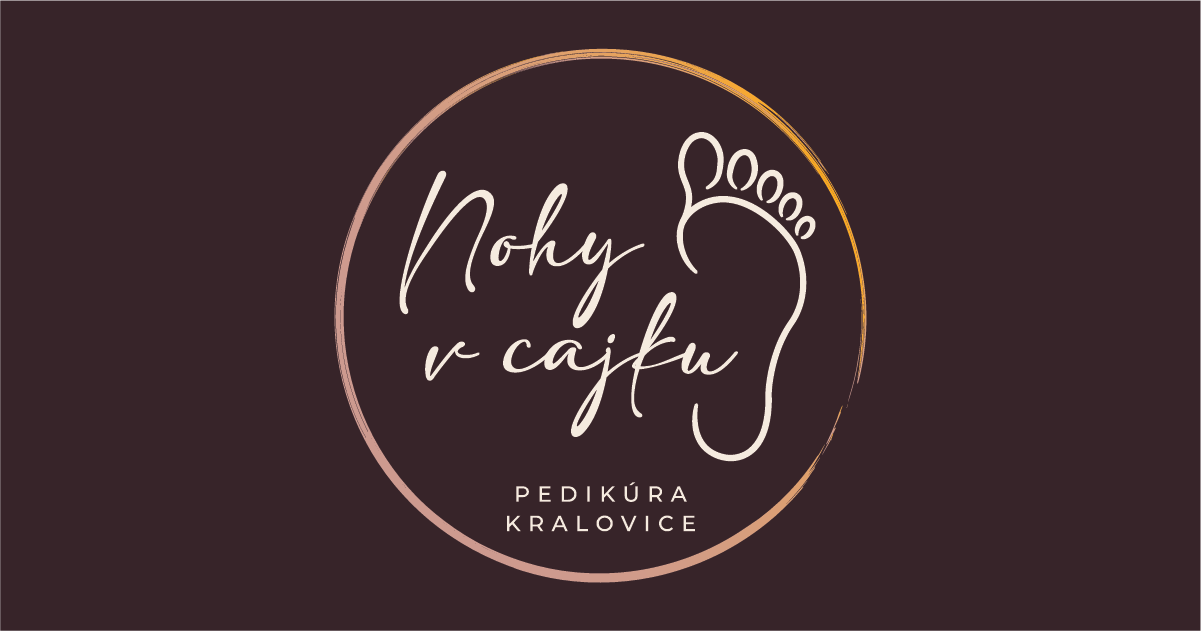
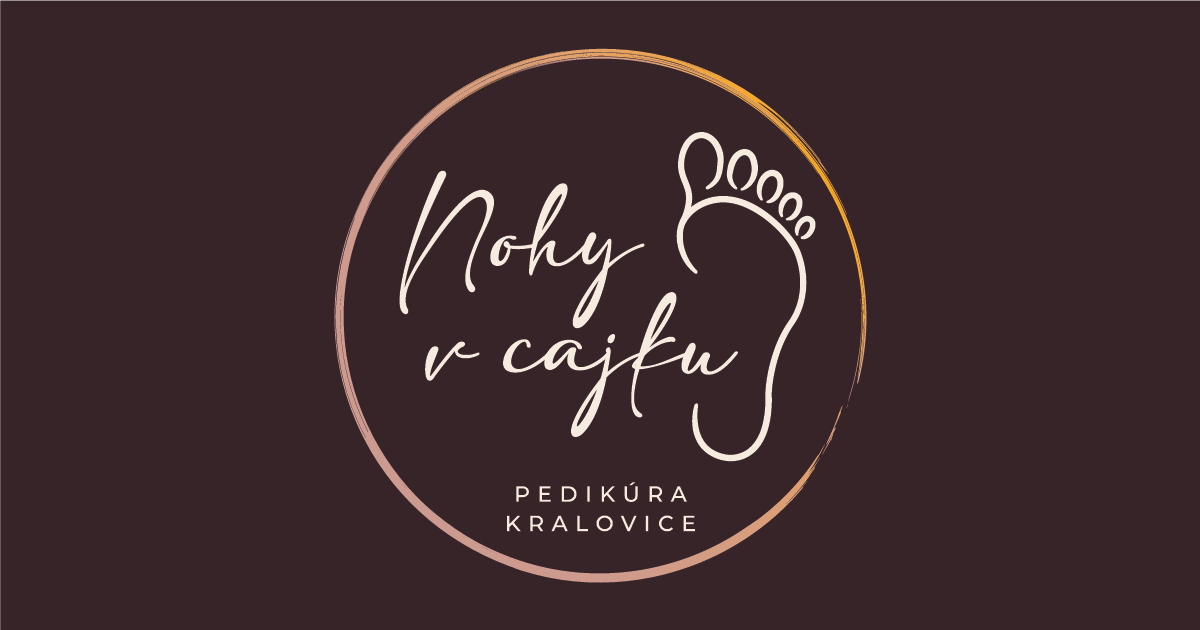
refactor: sdilena kontrola vlastniho casu, OG obrazek 1200x630 (audit D4, P8)
- checkOutsideHoursSlot v lib/check-booking-overlap.ts nahrazuje
  zkopirovanou kontrolu (minulost, pres pulnoc, prekryv) v
  createManualBookingAction, moveBooking a moveGroupBooking
- vraci duvod misto vyjimky, volajici si ho prevede na svou chybu,
  texty chyb beze zmeny
- testy pro checkOutsideHoursSlot
- app/opengraph-image.png oriznut z 1201x631 na 1200x630
- audit: D4 a OG hotove, D3, Q7 a cache vedome neresene

diff --git a/lib/move-booking.ts b/lib/move-booking.ts
@@ -2,10 +2,11 @@ import { Booking } from "@/lib/generated/prisma/client";
 import { prisma } from "./prisma";
 import { createBooking } from "./create-booking";
 import { getAvailableSlots } from "./get-available-slots";
-import { hasOverlappingBooking } from "./check-booking-overlap";
-import { endsAfterMidnight, getCzechToday } from "./utils";
+import {
+    checkOutsideHoursSlot,
+    type OutsideHoursSlotProblem,
+} from "./check-booking-overlap";
 import { isBookingSlotConflict } from "./booking-conflict-error";
-import { sumServiceDurations } from "./service-duration";
 
 export const PAST_MIDNIGHT_ERROR = "Rezervace by přesáhla půlnoc.";
 export const ALREADY_CANCELLED_ERROR = "Rezervace už byla zrušena.";
@@ -22,6 +23,13 @@ export class SlotUnavailableError extends Error {
 function rethrowSlotConflict(error: unknown): never {
     if (isBookingSlotConflict(error)) throw new SlotUnavailableError();
     throw error;
+}
+
+function throwIfSlotProblem(problem: OutsideHoursSlotProblem | null) {
+    if (problem === "pastMidnight") {
+        throw new SlotUnavailableError(PAST_MIDNIGHT_ERROR);
+    }
+    if (problem) throw new SlotUnavailableError();
 }
 
 // Move = cancel the old booking + create a new one (never edited in place),
@@ -67,27 +75,15 @@ export async function moveBooking(
             // Checked after cancelling (inside the same transaction) so the
             // booking being moved never collides with its own old slot.
             if (options.outsideHours) {
-                if (newDate.getTime() < getCzechToday().getTime()) {
-                    throw new SlotUnavailableError();
-                }
-                const service = await tx.service.findUniqueOrThrow({
-                    where: { id: serviceId },
-                });
-                const duration = service.durationMinutes + extraTimeMinutes;
-                // A custom time skips the availability windows, which are what
-                // normally keeps a booking inside the day.
-                if (endsAfterMidnight(newStartTime, duration)) {
-                    throw new SlotUnavailableError(PAST_MIDNIGHT_ERROR);
-                }
-                const overlaps = await hasOverlappingBooking(
-                    newDate,
-                    newStartTime,
-                    newStartTime + duration,
-                    { db: tx }
+                throwIfSlotProblem(
+                    await checkOutsideHoursSlot(
+                        newDate,
+                        newStartTime,
+                        [serviceId],
+                        extraTimeMinutes,
+                        { db: tx }
+                    )
                 );
-                if (overlaps) {
-                    throw new SlotUnavailableError();
-                }
             } else {
                 const validSlots = await getAvailableSlots(
                     newDate,
@@ -162,27 +158,15 @@ export async function moveGroupBooking(
             const totalExtraMinutes = extraTimes.reduce((sum, m) => sum + m, 0);
 
             if (options.outsideHours) {
-                if (newDate.getTime() < getCzechToday().getTime()) {
-                    throw new SlotUnavailableError();
-                }
-                const services = await tx.service.findMany({
-                    where: { id: { in: serviceIds } },
-                });
-                const groupDuration =
-                    sumServiceDurations(serviceIds, services) +
-                    totalExtraMinutes;
-                if (endsAfterMidnight(newGroupStart, groupDuration)) {
-                    throw new SlotUnavailableError(PAST_MIDNIGHT_ERROR);
-                }
-                const overlaps = await hasOverlappingBooking(
-                    newDate,
-                    newGroupStart,
-                    newGroupStart + groupDuration,
-                    { db: tx }
+                throwIfSlotProblem(
+                    await checkOutsideHoursSlot(
+                        newDate,
+                        newGroupStart,
+                        serviceIds,
+                        totalExtraMinutes,
+                        { db: tx }
+                    )
                 );
-                if (overlaps) {
-                    throw new SlotUnavailableError();
-                }
             } else {
                 const validSlots = await getAvailableSlots(
                     newDate,

diff --git a/lib/check-booking-overlap.test.ts b/lib/check-booking-overlap.test.ts
@@ -1,0 +1,112 @@
+import { afterEach, beforeEach, describe, expect, it } from "vitest";
+import { prisma } from "./prisma";
+import { createBooking } from "./create-booking";
+import { checkOutsideHoursSlot } from "./check-booking-overlap";
+import { addUtcDays, getCzechToday } from "./utils";
+
+// Own date, not shared with other test files: the overlap check looks at
+// every confirmed booking on the day, not only this file's.
+describe("checkOutsideHoursSlot", () => {
+    let clientId: string;
+    let serviceId: number;
+    const testDate = new Date("2099-09-01T00:00:00.000Z");
+
+    beforeEach(async () => {
+        const client = await prisma.client.create({
+            data: { name: "Test Klient Overlap", phone: "999999998" },
+        });
+        clientId = client.id;
+
+        const service = await prisma.service.create({
+            data: { name: "Test Service 60", durationMinutes: 60, price: 100 },
+        });
+        serviceId = service.id;
+    });
+
+    afterEach(async () => {
+        await prisma.booking.deleteMany({ where: { clientId } });
+        await prisma.client.delete({ where: { id: clientId } });
+        await prisma.service.delete({ where: { id: serviceId } });
+    });
+
+    it("accepts a free slot", async () => {
+        expect(
+            await checkOutsideHoursSlot(testDate, 600, [serviceId], 0)
+        ).toBeNull();
+    });
+
+    it("accepts today", async () => {
+        expect(
+            await checkOutsideHoursSlot(getCzechToday(), 0, [serviceId], 0)
+        ).not.toBe("past");
+    });
+
+    it("rejects a day in the past", async () => {
+        const yesterday = addUtcDays(getCzechToday(), -1);
+        expect(
+            await checkOutsideHoursSlot(yesterday, 600, [serviceId], 0)
+        ).toBe("past");
+    });
+
+    it("accepts a booking ending exactly at midnight", async () => {
+        expect(
+            await checkOutsideHoursSlot(testDate, 23 * 60, [serviceId], 0)
+        ).toBeNull();
+    });
+
+    it("rejects a booking whose extra time pushes it past midnight", async () => {
+        expect(
+            await checkOutsideHoursSlot(testDate, 23 * 60, [serviceId], 5)
+        ).toBe("pastMidnight");
+    });
+
+    it("counts the same service once per person", async () => {
+        expect(
+            await checkOutsideHoursSlot(
+                testDate,
+                22 * 60 + 30,
+                [serviceId, serviceId],
+                0
+            )
+        ).toBe("pastMidnight");
+    });
+
+    it("rejects a slot overlapping a confirmed booking", async () => {
+        await createBooking({
+            clientId,
+            serviceId,
+            date: testDate,
+            startTime: 600,
+            source: "PHONE",
+        });
+
+        expect(await checkOutsideHoursSlot(testDate, 630, [serviceId], 0)).toBe(
+            "overlap"
+        );
+    });
+
+    it("accepts a slot right after a booking and ignores cancelled ones", async () => {
+        await createBooking({
+            clientId,
+            serviceId,
+            date: testDate,
+            startTime: 600,
+            source: "PHONE",
+        });
+        const cancelled = await createBooking({
+            clientId,
+            serviceId,
+            date: testDate,
+            startTime: 700,
+            source: "PHONE",
+        });
+        await prisma.booking.update({
+            where: { id: cancelled.id },
+            data: { status: "CANCELLED" },
+        });
+
+        expect(
+            await checkOutsideHoursSlot(testDate, 660, [serviceId], 0)
+        ).toBeNull();
+    });
+});

diff --git a/app/(admin)/(dashboard)/kalendar/actions.ts b/app/(admin)/(dashboard)/kalendar/actions.ts
@@ -12,21 +12,29 @@ import {
     SlotUnavailableError,
 } from "@/lib/move-booking";
 import { getAvailableSlots } from "@/lib/get-available-slots";
-import { hasOverlappingBooking } from "@/lib/check-booking-overlap";
+import {
+    checkOutsideHoursSlot,
+    type OutsideHoursSlotProblem,
+} from "@/lib/check-booking-overlap";
 import { findOrCreateClient } from "@/lib/find-or-create-client";
 import { createBooking } from "@/lib/create-booking";
 import { createGroupBooking } from "@/lib/create-group-booking";
-import { endsAfterMidnight, toDateOnly, getCzechToday } from "@/lib/utils";
+import { toDateOnly, getCzechToday } from "@/lib/utils";
 import { normalizeExtraMinutes } from "@/lib/extra-time";
 import { sendBookingMovedEmail } from "@/lib/send-booking-confirmation-email";
 import { idSchema } from "@/lib/validation";
-import { sumServiceDurations } from "@/lib/service-duration";
 import {
     createManualBookingInputSchema,
     manualBookingSlotsInputSchema,
     moveSlotsInputSchema,
     updateBookingInputSchema,
 } from "./schema";
+
+const OUTSIDE_HOURS_ERRORS: Record<OutsideHoursSlotProblem, string> = {
+    past: "Nelze vytvořit rezervaci v minulosti.",
+    pastMidnight: PAST_MIDNIGHT_ERROR,
+    overlap: "Zvolený čas koliduje s jinou rezervací.",
+};
 
 // The admin forms validate the same things first, so this only shows up
 // for tampered input or a phone that couldn't be normalized.
@@ -362,7 +370,7 @@ export async function createManualBookingAction(input: {
     const date = toDateOnly(new Date(input.dateStr));
 
     if (date.getTime() < getCzechToday().getTime()) {
-        return { ok: false, error: "Nelze vytvořit rezervaci v minulosti." };
+        return { ok: false, error: OUTSIDE_HOURS_ERRORS.past };
     }
 
     // Every check below runs before findOrCreateClient – a rejected booking
@@ -388,31 +396,14 @@ export async function createManualBookingAction(input: {
     const extraMinutes = people.reduce((sum, p) => sum + p.extraTimeMinutes, 0);
 
     if (input.outsideHours) {
-        // Custom time entered by hand – skips the availability-window
-        // check entirely, so overlap with existing bookings needs its
-        // own explicit check here.
-        const services = await prisma.service.findMany({
-            where: { id: { in: serviceIds } },
-        });
-        const totalDuration =
-            sumServiceDurations(serviceIds, services) + extraMinutes;
-
-        // A custom time skips the availability windows, which are what
-        // normally keeps a booking inside the day.
-        if (endsAfterMidnight(input.startTime, totalDuration)) {
-            return { ok: false, error: PAST_MIDNIGHT_ERROR };
-        }
-
-        const overlaps = await hasOverlappingBooking(
+        const problem = await checkOutsideHoursSlot(
             date,
             input.startTime,
-            input.startTime + totalDuration
+            serviceIds,
+            extraMinutes
         );
-        if (overlaps) {
-            return {
-                ok: false,
-                error: "Zvolený čas koliduje s jinou rezervací.",
-            };
+        if (problem) {
+            return { ok: false, error: OUTSIDE_HOURS_ERRORS[problem] };
         }
     } else {
         const validSlots = await getAvailableSlots(

diff --git a/lib/check-booking-overlap.ts b/lib/check-booking-overlap.ts
@@ -1,23 +1,57 @@
 import { prisma } from "./prisma";
 import type { Prisma } from "@/lib/generated/prisma/client";
+import { sumServiceDurations } from "./service-duration";
+import { endsAfterMidnight, getCzechToday } from "./utils";
 
 // Used only for bookings created outside the normal availability-window
 // flow (admin "vlastní čas"), where getAvailableSlots/computeGaps never
 // run. Booking_no_overlap would reject an overlap at insert too, but this
 // check runs first so the admin gets a clear message instead of a race
 // error, and nothing (client update) happens before it.
-export async function hasOverlappingBooking(
+async function hasOverlappingBooking(
+    db: Prisma.TransactionClient,
     date: Date,
     start: number,
-    end: number,
-    options: { db?: Prisma.TransactionClient } = {}
+    end: number
 ): Promise<boolean> {
-    const db = options.db ?? prisma;
-
     const bookings = await db.booking.findMany({
         where: { date, status: "CONFIRMED" },
         select: { startTime: true, endTime: true },
     });
 
     return bookings.some((b) => start < b.endTime && end > b.startTime);
+}
+
+export type OutsideHoursSlotProblem = "past" | "pastMidnight" | "overlap";
+
+// Returns the reason instead of throwing, because callers react
+// differently: the move functions throw SlotUnavailableError, the admin
+// action returns its own message.
+export async function checkOutsideHoursSlot(
+    date: Date,
+    startTime: number,
+    serviceIds: number[],
+    extraMinutes: number,
+    options: { db?: Prisma.TransactionClient } = {}
+): Promise<OutsideHoursSlotProblem | null> {
+    const db = options.db ?? prisma;
+
+    if (date.getTime() < getCzechToday().getTime()) return "past";
+
+    const services = await db.service.findMany({
+        where: { id: { in: serviceIds } },
+    });
+    const duration = sumServiceDurations(serviceIds, services) + extraMinutes;
+
+    // A custom time skips the availability windows, which are what
+    // normally keeps a booking inside the day.
+    if (endsAfterMidnight(startTime, duration)) return "pastMidnight";
+
+    if (
+        await hasOverlappingBooking(db, date, startTime, startTime + duration)
+    ) {
+        return "overlap";
+    }
+
+    return null;
 }

diff --git a/docs/AUDIT-2026-10-23.md b/docs/AUDIT-2026-10-23.md
@@ -25,13 +25,14 @@ Report níže popisuje stav při auditu; tohle je, co se s ním stalo.
 | P1 | #13 | B3, B4, B5, S3, S4, S5, P1, P2 opraveno. S3 nakonec model „nejnovější údaje vyhrávají“ + zápis klienta až po ověření slotu (rozhodnutí v CLAUDE.md). |
 | P2 | #14 | S2, S6 (+ Vercel Firewall mimo repo), S7, S8, B6, B7, B8, P3, P4, P5, P7 opraveno. P6 zkoušeno a vráceno (`React.cache` se mezi server action a renderem nesdílí). |
 | P3 | `fix/audit-p3` | Drobnosti S/B z P3, P8 (Resend, Analytics jen veřejně, fonty s fallbackem), D1, D2, D5, D6, D7, U1–U6, Q1 (CI), Q2 (em dash), Q5 (Prettier), Q6 (ESLint bez warningů); navíc zrušen nadbytečný unique index. |
-| Q3, Q4 | `fix/audit-code-conventions` | Q3 importy bez přípony `.ts/.tsx`, pojistkou je odebrané `allowImportingTsExtensions` (tsc hlásí TS5097) místo ESLint pravidla. Q4 logy a komentáře anglicky, výpisy ručních skriptů ve `scripts/` záměrně česky. |
+| Q3, Q4 | #20 | Q3 importy bez přípony `.ts/.tsx`, pojistkou je odebrané `allowImportingTsExtensions` (tsc hlásí TS5097) místo ESLint pravidla. Q4 logy a komentáře anglicky, výpisy ručních skriptů ve `scripts/` záměrně česky. |
+| D4, P8 | `refactor/audit-d4-outside-hours-check` | D4 kontrola vlastního času sjednocena do `checkOutsideHoursSlot` (`lib/check-booking-overlap.ts`), vrací důvod a volající si ho převede na svou chybu. P8 OG obrázek `app/opengraph-image.png` (logo, 1200×630). |
 
-**Vědomě neřešeno / zbývá:**
+**Vědomě neřešeno:**
 
-- **P8** – cachování dostupnosti (`getAvailableSlots`) – při současném provozu předčasná optimalizace; OG obrázek ve správném poměru (1200×630) – potřebuje grafickou úpravu fotky.
-- **D3, D4** – sjednocení `getAvailableSlots`/`getAvailableDaysInRange` a kontroly „mimo pracovní dobu“ – větší refaktor jádra dostupnosti, zatím pokryté testy a funkční.
-- **Q7** – rozdělení velkých admin komponent (`booking-detail-dialog`, `add-booking-dialog`, `exception-form`) – vyžaduje vizuální ověření, samostatný úkol.
+- **P8** – cachování dostupnosti (`getAvailableSlots`) – při současném provozu předčasná optimalizace.
+- **D3** – sjednocení `getAvailableSlots`/`getAvailableDaysInRange` – výpočet slotů (`computeAvailableSlots`, `resolveDayTimeSlots`) už sdílený je, duplicitní zůstává jen načítání z DB a každá funkce má vlastní volby (`allowToday`, transakce, `allowUnfillableGaps` vs. rozsah dní). Sjednocení by přidalo abstrakci do nejcitlivějšího kódu za malý zisk.
+- **Q7** – rozdělení velkých admin komponent (`booking-detail-dialog`, `add-booking-dialog`, `exception-form`, `time-picker`) – samo o sobě nic neopravuje a potřebuje vizuální přetestování; rozdělit až při změnách v těchto souborech (UX audit A5, A7).
 - Souběh při zápisu klienta (zapíše se, i když slot odmítne až DB constraint) – vzácné, zapsáno v CLAUDE.md.
 
 ---
